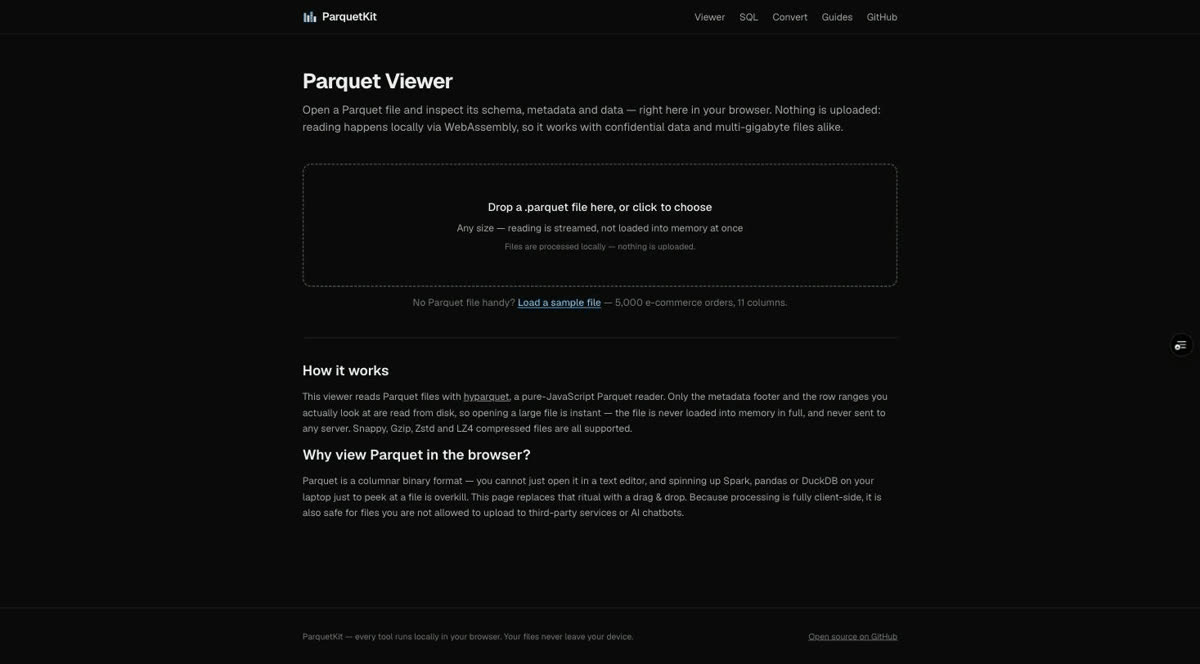
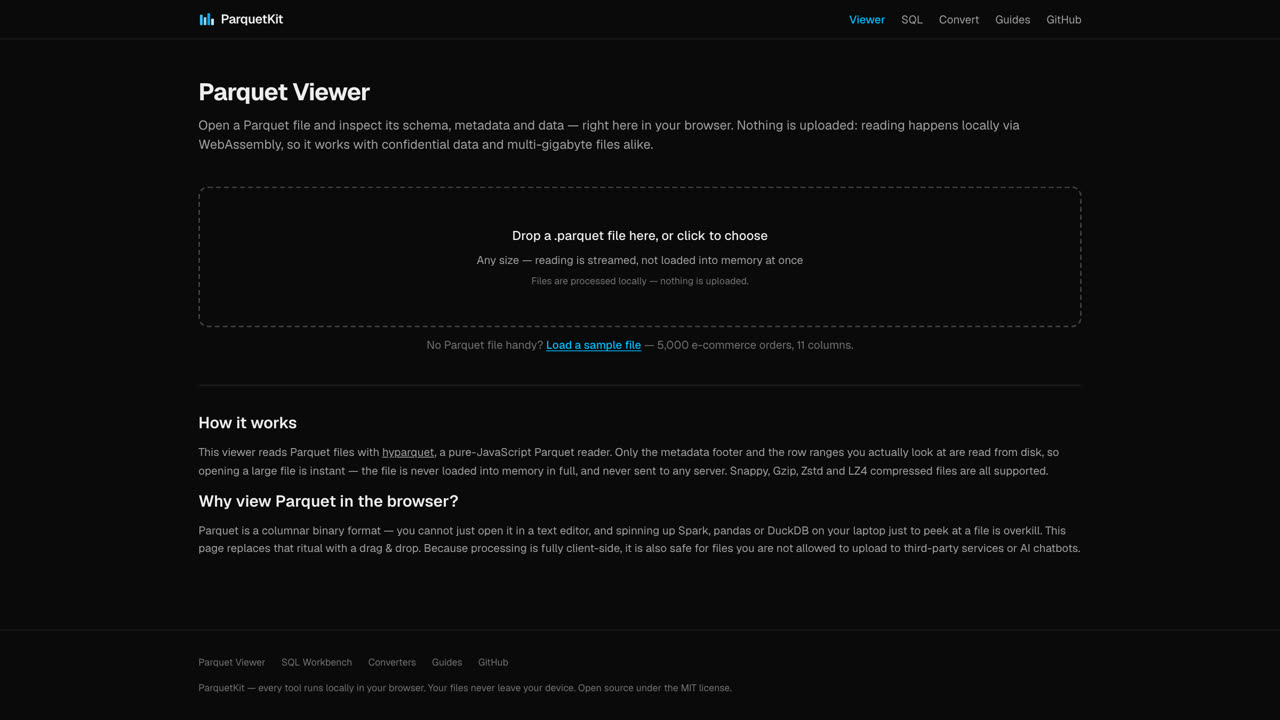
feat: wider layout (max-w-7xl) and clean, larger demo recording
Re-recorded the demo with headless Playwright at 1.5x DPR — no browser
extension icons in frame. Hero video enlarged to a 640px column, README
GIF shrunk from 1.6MB to 314KB.

diff --git a/app/page.tsx b/app/page.tsx
@@ -55,12 +55,12 @@ export default function Home() {
   const docs = loadDocs();
 
   return (
-    <main className="relative mx-auto flex w-full max-w-6xl flex-1 flex-col gap-12 px-6 py-16">
+    <main className="relative mx-auto flex w-full max-w-7xl flex-1 flex-col gap-12 px-6 py-16">
       <div
         aria-hidden="true"
         className="pointer-events-none absolute inset-x-0 -top-16 -z-10 h-[420px] bg-[radial-gradient(ellipse_at_top,rgba(56,189,248,0.10),transparent_60%)]"
       />
-      <section className="grid items-center gap-8 lg:grid-cols-[1fr_minmax(0,560px)]">
+      <section className="grid items-center gap-8 lg:grid-cols-[1fr_minmax(0,640px)]">
         <div className="flex flex-col gap-4">
           <h1 className="max-w-2xl text-4xl font-bold tracking-tight">
             Work with Parquet files, entirely in your browser
@@ -90,8 +90,8 @@ export default function Home() {
           </video>
           <Image
             src="/hero-demo-poster.jpg"
-            width={1200}
-            height={664}
+            width={1280}
+            height={720}
             alt="The Parquet Viewer showing schema and rows of a sample dataset"
             className="hidden w-full rounded-lg border border-neutral-200 motion-reduce:block dark:border-neutral-800"
           />

diff --git a/app/layout.tsx b/app/layout.tsx
@@ -47,7 +47,7 @@ export default function RootLayout({
     >
       <body className="min-h-full flex flex-col">
         <header className="sticky top-0 z-40 border-b border-neutral-800/80 bg-neutral-950/70 backdrop-blur">
-          <div className="mx-auto flex w-full max-w-6xl flex-wrap items-center gap-x-6 gap-y-2 px-6 py-3">
+          <div className="mx-auto flex w-full max-w-7xl flex-wrap items-center gap-x-6 gap-y-2 px-6 py-3">
             <Link
               href="/"
               className="mr-auto flex items-center gap-2 font-semibold tracking-tight"
@@ -71,7 +71,7 @@ export default function RootLayout({
         </header>
         {children}
         <footer className="border-t border-neutral-200 dark:border-neutral-800/80">
-          <div className="mx-auto flex w-full max-w-6xl flex-col gap-4 px-6 py-8 text-xs text-neutral-500">
+          <div className="mx-auto flex w-full max-w-7xl flex-col gap-4 px-6 py-8 text-xs text-neutral-500">
             <nav aria-label="Footer" className="flex flex-wrap gap-x-5 gap-y-1">
               <Link href="/parquet-viewer" className="transition-colors hover:text-sky-400">
                 Parquet Viewer

diff --git a/app/convert/[slug]/page.tsx b/app/convert/[slug]/page.tsx
@@ -48,7 +48,7 @@ export default async function ConversionPage({
   const to = FORMAT_LABELS[pair.to];
 
   return (
-    <main className="mx-auto flex w-full max-w-6xl flex-1 flex-col gap-10 px-6 py-12">
+    <main className="mx-auto flex w-full max-w-7xl flex-1 flex-col gap-10 px-6 py-12">
       <header className="flex flex-col gap-3">
         <h1 className="text-3xl font-bold tracking-tight">
           Convert {from} to {to}

diff --git a/app/not-found.tsx b/app/not-found.tsx
@@ -2,7 +2,7 @@ import Link from "next/link";
 
 export default function NotFound() {
   return (
-    <main className="mx-auto flex w-full max-w-6xl flex-1 flex-col items-center justify-center gap-6 px-6 py-24 text-center">
+    <main className="mx-auto flex w-full max-w-7xl flex-1 flex-col items-center justify-center gap-6 px-6 py-24 text-center">
       <h1 className="text-4xl font-bold tracking-tight">Page not found</h1>
       <p className="max-w-md text-neutral-600 dark:text-neutral-400">
         This page does not exist — but your Parquet file is probably still

diff --git a/app/parquet-viewer/page.tsx b/app/parquet-viewer/page.tsx
@@ -9,7 +9,7 @@ export const metadata: Metadata = {
 
 export default function ParquetViewerPage() {
   return (
-    <main className="mx-auto flex w-full max-w-6xl flex-1 flex-col gap-10 px-6 py-12">
+    <main className="mx-auto flex w-full max-w-7xl flex-1 flex-col gap-10 px-6 py-12">
       <header className="flex flex-col gap-3">
         <h1 className="text-3xl font-bold tracking-tight">Parquet Viewer</h1>
         <p className="text-neutral-600 dark:text-neutral-400">

diff --git a/app/sql/page.tsx b/app/sql/page.tsx
@@ -9,7 +9,7 @@ export const metadata: Metadata = {
 
 export default function SqlWorkbenchPage() {
   return (
-    <main className="mx-auto flex w-full max-w-6xl flex-1 flex-col gap-10 px-6 py-12">
+    <main className="mx-auto flex w-full max-w-7xl flex-1 flex-col gap-10 px-6 py-12">
       <header className="flex flex-col gap-3">
         <h1 className="text-3xl font-bold tracking-tight">SQL Workbench</h1>
         <p className="text-neutral-600 dark:text-neutral-400">